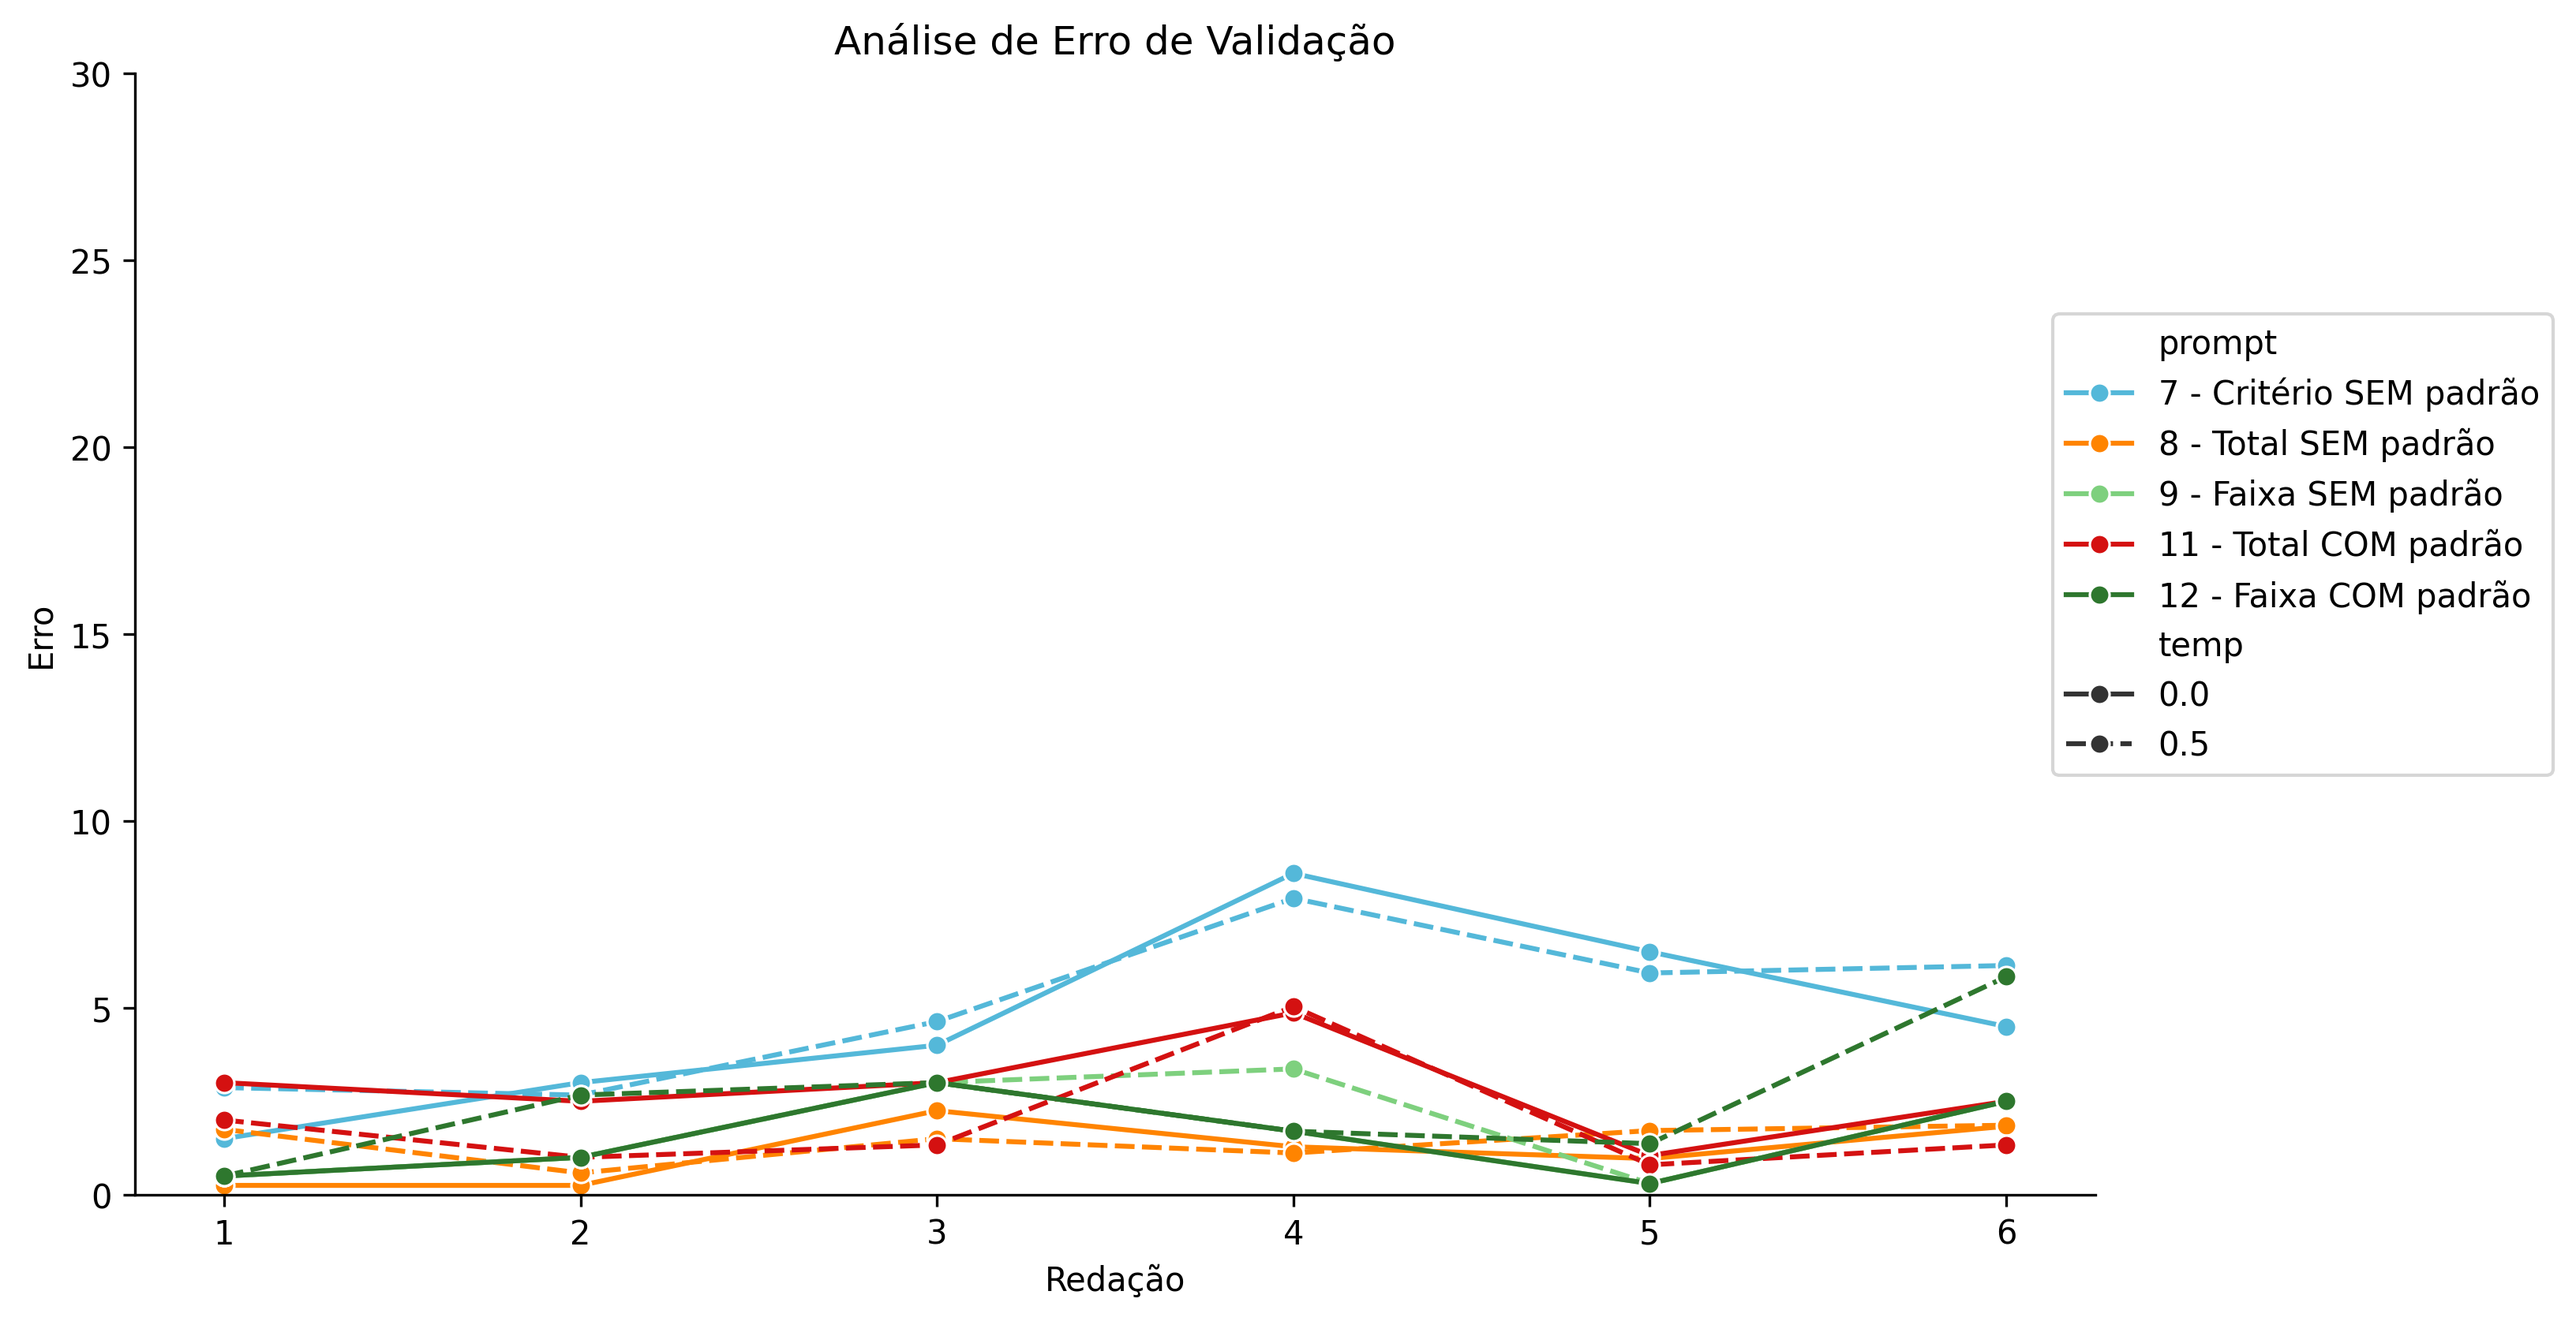
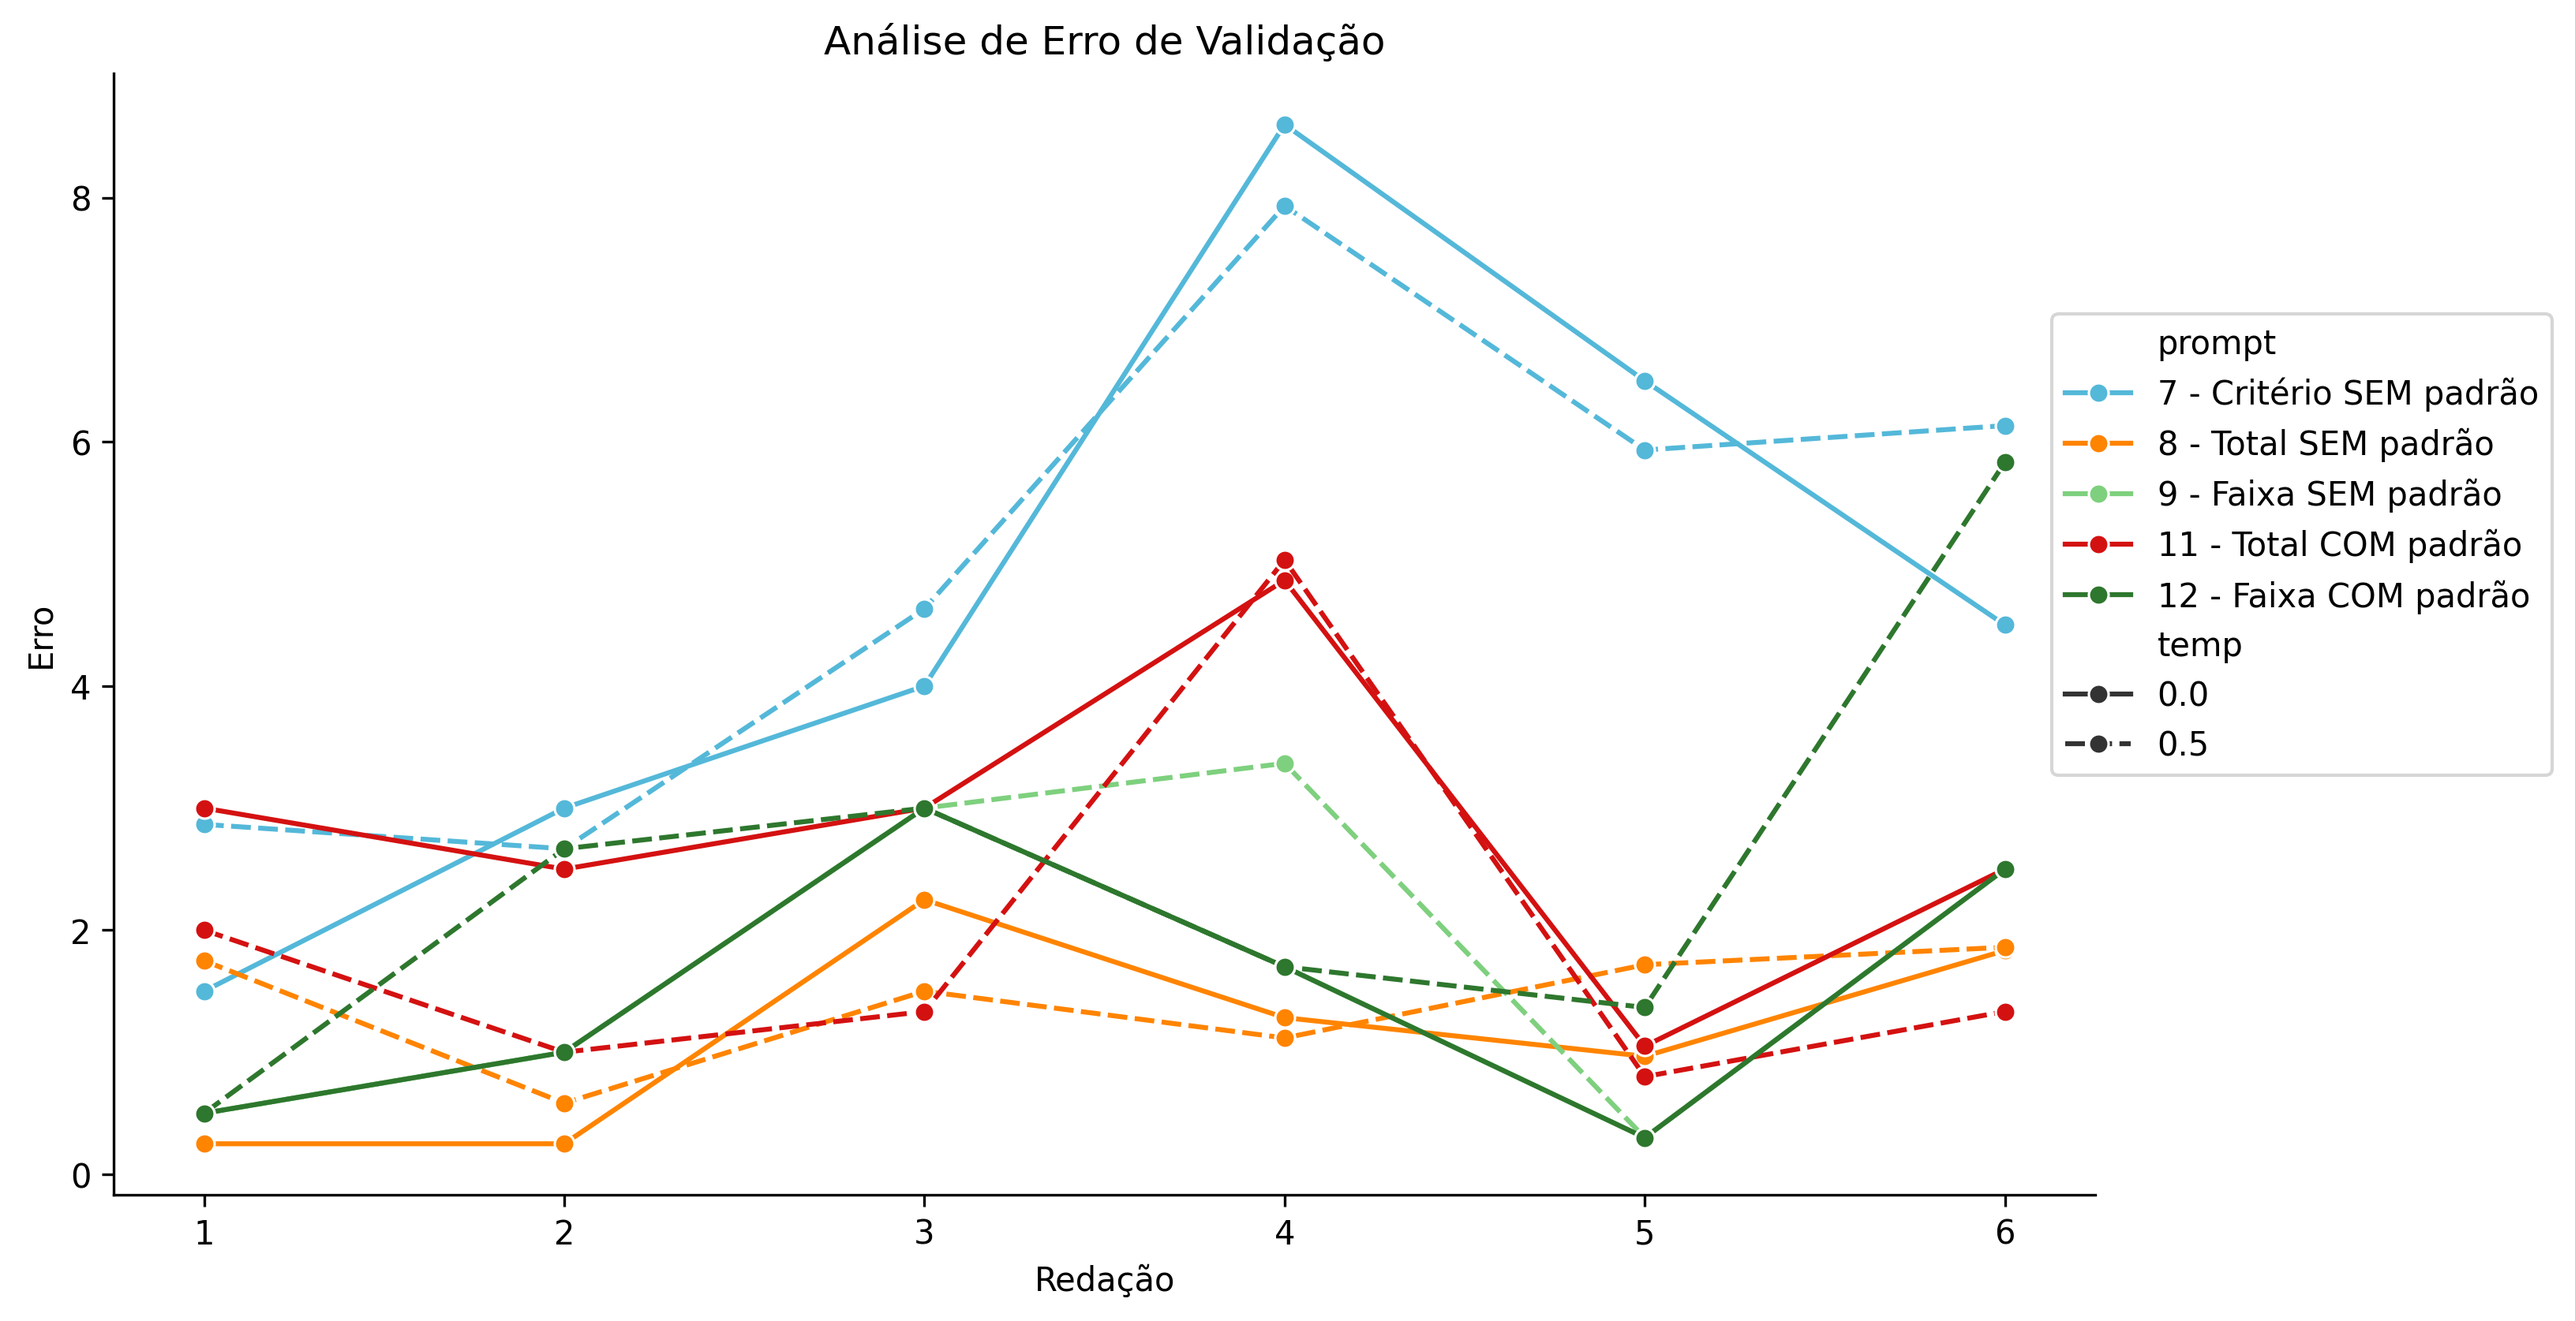
Fix: Validation Error plot

diff --git a/scripts/plot.py b/scripts/plot.py
@@ -64,7 +64,11 @@ def plot_val_error(df, output_path):
     ax.set_ylabel("Erro")
     ax.spines[['top', 'right']].set_visible(False)
     ax.legend(bbox_to_anchor=(0.97, 0.8), loc="upper left")
-    ax.set_ylim(0,30)
+    
+    if (max(df["val_error"].to_list()) > 30):
+        ax.set_ylim(0,30)
+    else:
+        ax.set_ylim()
 
     plt.tight_layout(rect=[0, 0, 1.1, 0.95])
     plt.savefig(f"{output_path}/area_val_error.png", dpi=300, bbox_inches='tight')
@@ -126,7 +130,6 @@ def plot_eval_human_num_errors(df_merged, df_human, output_path):
     df_merged = df_merged.copy()
     df_merged = df_merged.sort_values(by=["erros_humano", "redacao"], ascending=[False, True])
     df_merged["redacao"] = df_merged["redacao"].astype(str)
-    print(df_merged[["redacao", "prompt", "num_errors", "erros_humano"]])
 
     df_merged["prompt"] = df_merged["prompt"].astype(str)
     df_merged["prompt"] = df_merged["prompt"].replace({"7": "7 - Critério SEM padrão", "8":"8 - Total SEM padrão", "9":"9 - Faixa SEM padrão", "11":"11 - Total COM padrão", "12":"12 - Faixa COM padrão"})

diff --git a/scripts/analysis_report.py b/scripts/analysis_report.py
@@ -33,8 +33,6 @@ def main(num_runs, eval_path, human_path, model, model_version):
     df_human[["redacao", "nota_final", "num_errors"]].rename(columns={"nota_final": "nota_humana", "num_errors": "erros_humano"}), on="redacao")
     df_merged["val_error"] =  abs(df_merged["nota_humana"] - df_merged["nota_final"])
 
-    #print(df_merged)
-
     df_notas = pd.DataFrame()
     df_notas['redacao'] = df_merged["redacao"].unique()
     df_notas = df_notas.set_index('redacao')

diff --git a/prompt_testing/reports/sabia-3.1_2018_3_runs/report.md b/prompt_testing/reports/sabia-3.1_2018_3_runs/report.md
@@ -1,5 +1,5 @@
 # Relatório de Avaliação: sabia-3.1_2018 - 3 execuções
-**Gerado em: 25/03/2026 22:33:44**
+**Gerado em: 25/03/2026 22:50:26**
 
 ## 1. Distribuição de Notas
 Nesta seção comparamos as notas atribuídas pelo modelo sabia em diferentes prompts/temperaturas versus a correção humana.

diff --git a/prompt_testing/reports/sabia-3.1_2022_3_runs/report.md b/prompt_testing/reports/sabia-3.1_2022_3_runs/report.md
@@ -1,5 +1,5 @@
 # Relatório de Avaliação: sabia-3.1_2022 - 3 execuções
-**Gerado em: 25/03/2026 22:32:14**
+**Gerado em: 25/03/2026 22:50:50**
 
 ## 1. Distribuição de Notas
 Nesta seção comparamos as notas atribuídas pelo modelo sabia em diferentes prompts/temperaturas versus a correção humana.
